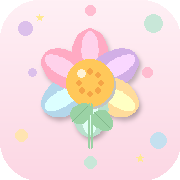
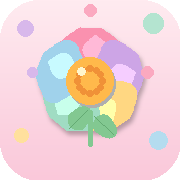
优化花花图标 + 修复 manifest 配置 🌸

diff --git a/vite.config.ts b/vite.config.ts
@@ -20,20 +20,23 @@ export default defineConfig({
         background_color: '#FBF3F6',
         display: 'standalone',
         orientation: 'portrait',
-        start_url: '/',
+        start_url: '/lukin-workbench/',
+        scope: '/lukin-workbench/',
         icons: [
           {
             src: 'icon-192.png',
             sizes: '192x192',
             type: 'image/png',
+            purpose: 'any',
           },
           {
             src: 'icon-512.png',
             sizes: '512x512',
             type: 'image/png',
+            purpose: 'any',
           },
           {
-            src: 'icon-512.png',
+            src: 'icon-maskable-512.png',
             sizes: '512x512',
             type: 'image/png',
             purpose: 'maskable',
